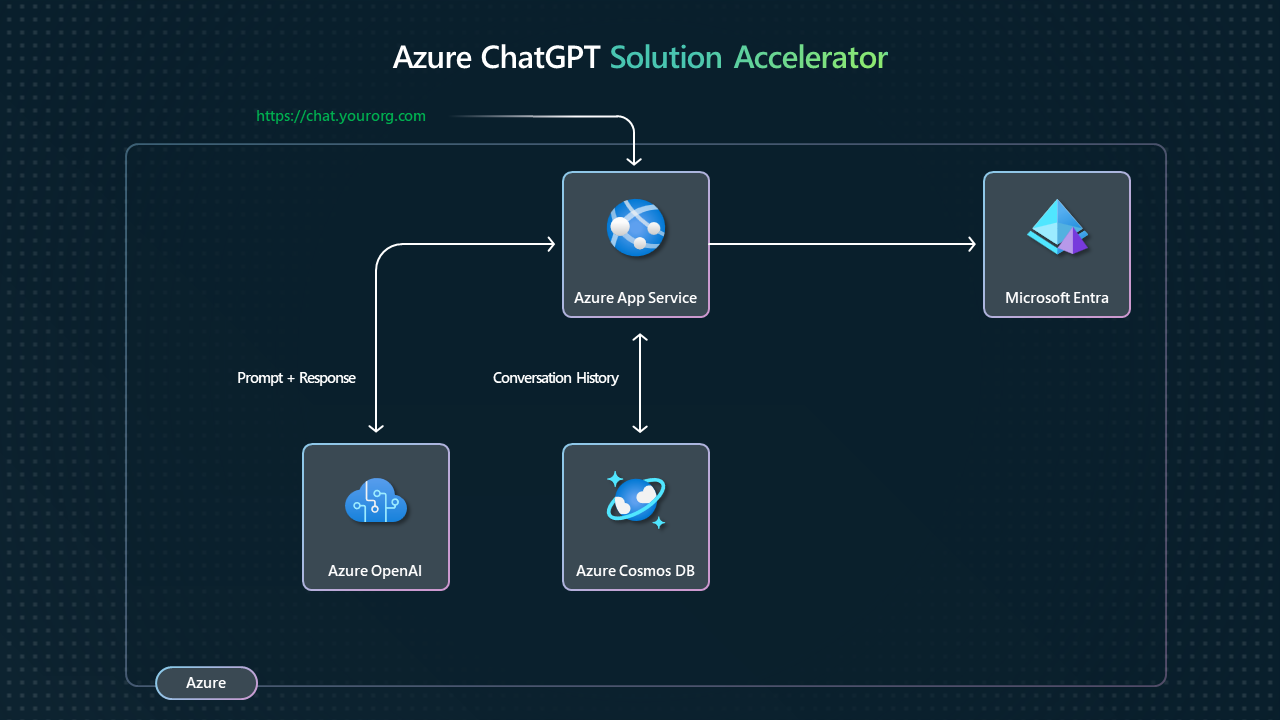
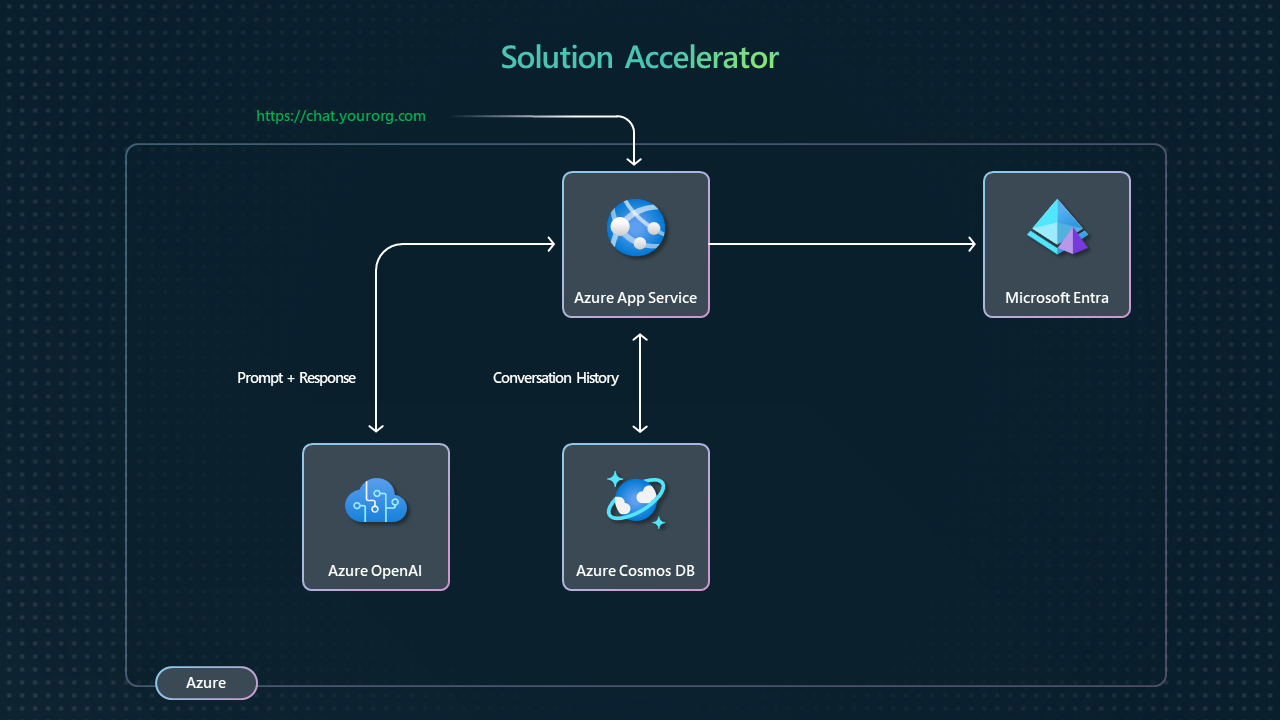
change name

Changed region(s): [[0.3125, 0.0611, 0.6875, 0.1222]]

diff --git a/src/features/theme/customise.ts b/src/features/theme/customise.ts
@@ -1,1 +1,1 @@
-export const AI_NAME = "Azure ChatGPT";
+export const AI_NAME = "ChatGPT on Azure solution accelerator";

diff --git a/docs/7-environment-variables.md b/docs/7-environment-variables.md
@@ -17,7 +17,7 @@ Below are the required environment variables, to be added to the Azure Portal or
 | AZURE_AD_CLIENT_ID                                                                                          |                                              | The client id specific to the application                                                                                              |
 | AZURE_AD_CLIENT_SECRET                                                                                      |                                              | The client secret specific to the application                                                                                          |
 | AZURE_AD_TENANT_ID                                                                                          |                                              | The organisation Tenant ID                                                                                                             |
-| **Azure Cognitive Search is optional for Azure ChatGPT. This is only required for chat over file feature.** |
+| **Azure Cognitive Search is optional for ChatGPT on Azure solution accelerator. This is only required for chat over file feature.** |
 | AZURE_SEARCH_API_KEY                                                                                        |                                              | API Key of Azure Cognitive search                                                                                                      |
 | AZURE_SEARCH_NAME                                                                                           | https://AZURE_SEARCH_NAME.search.windows.net | The deployment name of your Azure Cognitive Search                                                                                     |
 | AZURE_SEARCH_INDEX_NAME                                                                                     |                                              | The index name with [vector search](https://learn.microsoft.com/en-us/azure/search/vector-search-overview) enabled                     |

diff --git a/README.md b/README.md
@@ -6,7 +6,7 @@ ChatGPT has grown explosively in popularity as we all know now. Business users a
 
 However, ChatGPT risks exposing confidential intellectual property. One option is to block corporate access to ChatGPT, but people always find workarounds. This also limits the powerful capabilities of ChatGPT and reduces employee productivity and their work experience.
 
-Azure ChatGPT is our enterprise option. This is the exact same service but offered as your private ChatGPT.
+ChatGPT on Azure solution accelerator is our enterprise option. This solution provides similar user experience to ChatGPT but offered as your private ChatGPT.
 
 ### Benefits are:
 
@@ -16,14 +16,14 @@ Azure ChatGPT is our enterprise option. This is the exact same service but offer
 
 **3. Value:** Deliver added business value with your own internal data sources (plug and play) or use plug-ins to integrate with your internal services (e.g., ServiceNow, etc).
 
-We've built a Solution Accelerator to empower your workforce with Azure ChatGPT.
+We've built a Solution Accelerator to empower your workforce with ChatGPT on Azure solution accelerator.
 
 # Getting Started
 
 1. [ Introduction](/docs/1-introduction.md)
 1. [Provision Azure Resources](/docs/2-provision-azure-resources.md)
-1. [Run Azure ChatGPT from your local machine](/docs/3-run-locally.md)
-1. [Deploy Azure ChatGPT to Azure](/docs/4-deployto-azure.md)
+1. [Run ChatGPT on Azure solution accelerator from your local machine](/docs/3-run-locally.md)
+1. [Deploy ChatGPT on Azure solution accelerator to Azure](/docs/4-deployto-azure.md)
 1. [Add identity provider](/docs/5-add-Identity.md)
 1. [Chatting with your file](/docs/6-chat-over-file.md)
 1. [Environment variables](/docs/7-environment-variables.md)

diff --git a/docs/5-add-Identity.md b/docs/5-add-Identity.md
@@ -15,7 +15,7 @@ We'll create two GitHub apps: one for testing locally and another for production
 3. Fill in the following details
 
 ```
-Application name: Azure ChatGPT DEV Environment
+Application name: ChatGPT on Azure solution accelerator DEV Environment
 Homepage URL: http://localhost:3000
 Authorization callback URL: http://localhost:3000/api/auth/callback/github
 ```
@@ -27,7 +27,7 @@ Authorization callback URL: http://localhost:3000/api/auth/callback/github
 3. Fill in the following details
 
 ```
-Application name: Azure ChatGPT Production
+Application name: ChatGPT on Azure solution accelerator Production
 Homepage URL: https://YOUR-WEBSITE-NAME.azurewebsites.net
 Authorization callback URL: https://YOUR-WEBSITE-NAME.azurewebsites.net/api/auth/callback/github
 ```
@@ -49,7 +49,7 @@ Authorization callback URL: https://YOUR-WEBSITE-NAME.azurewebsites.net/api/auth
 3. Fill in the following details
 
 ```
-Application name: Azure ChatGPT DEV Environment
+Application name: ChatGPT on Azure solution accelerator DEV Environment
 Supported account types: Accounts in this organizational directory only
 Redirect URI Platform: Web
 Redirect URI: http://localhost:3000/api/auth/callback/azure-ad
@@ -62,7 +62,7 @@ Redirect URI: http://localhost:3000/api/auth/callback/azure-ad
 3. Fill in the following details
 
 ```
-Application name: Azure ChatGPT Production
+Application name: ChatGPT on Azure solution accelerator Production
 Supported account types: Accounts in this organizational directory only
 Redirect URI Platform: Web
 Redirect URI: https://YOUR-WEBSITE-NAME.azurewebsites.net/api/auth/callback/azure-ad

diff --git a/docs/2-provision-azure-resources.md b/docs/2-provision-azure-resources.md
@@ -4,7 +4,7 @@
 
 Click on the Deploy to Azure button and configure your settings in the Azure Portal as described in the [Environment variables](#-environment-variables) section.
 
-⚠ Note: This will only create azure resources. Follow the [deploy to Azure section](#-deploy-to-azure---github-actions) to build and deploy Azure ChatGPT.
+⚠ Note: This will only create azure resources. Follow the [deploy to Azure section](#-deploy-to-azure---github-actions) to build and deploy ChatGPT on Azure solution accelerator.
 
 Please see the [section below](#-add-an-identity-provider) for important information about adding authentication to your app.
 

diff --git a/docs/4-deployto-azure.md b/docs/4-deployto-azure.md
@@ -1,6 +1,6 @@
 # ☁ Deploy to Azure - GitHub Actions
 
-The following steps describes how Azure ChatGPT can be deployed to Azure App service using GitHub Actions.
+The following steps describes how ChatGPT on Azure solution accelerator can be deployed to Azure App service using GitHub Actions.
 
 # 🧬 Fork the repository
 

diff --git a/docs/1-introduction.md b/docs/1-introduction.md
@@ -9,7 +9,7 @@
 
 # 👋🏻 Introduction
 
-Azure ChatGPT is built with the following technologies.
+ChatGPT on Azure solution accelerator is built with the following technologies.
 
 [Node.js 18](https://nodejs.org/en): an open-source, cross-platform JavaScript runtime environment.
 

diff --git a/CONTRIBUTING.md b/CONTRIBUTING.md
@@ -1,6 +1,6 @@
 # How to contribute
 
-If you would like to contribute to the Azure ChatGPT repository there are many ways you can help.
+If you would like to contribute to the ChatGPT on Azure solution accelerator repository there are many ways you can help.
 
 ## Reporting issues
 
